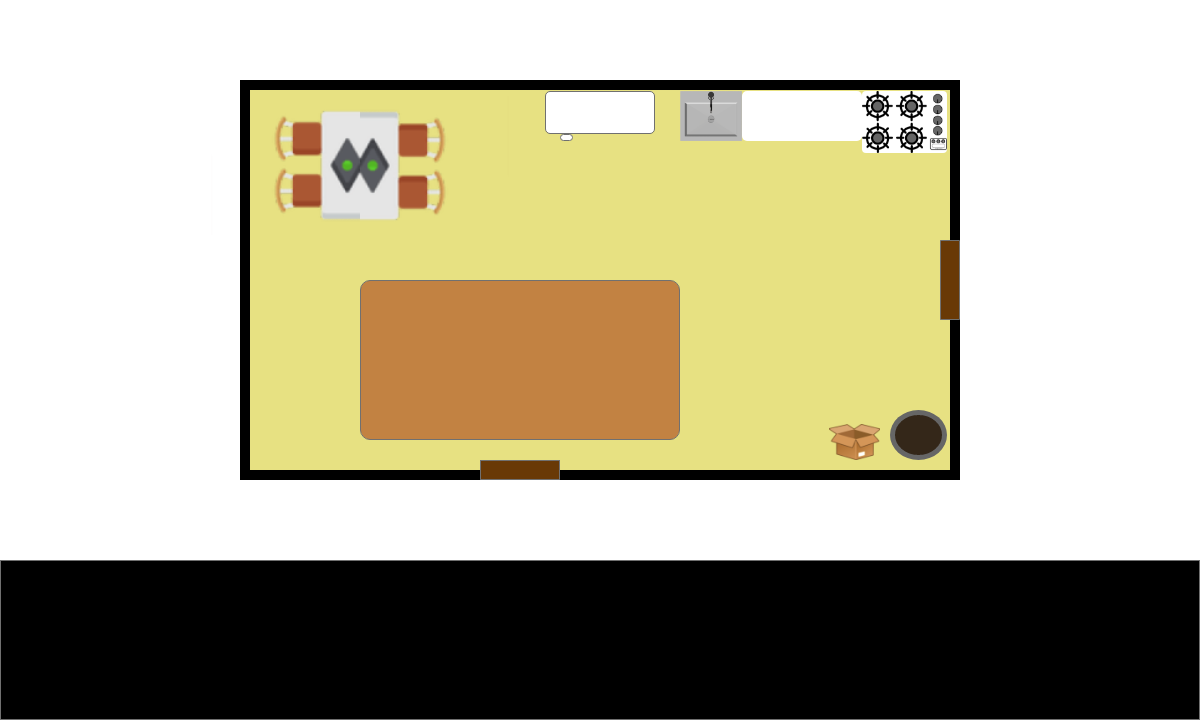
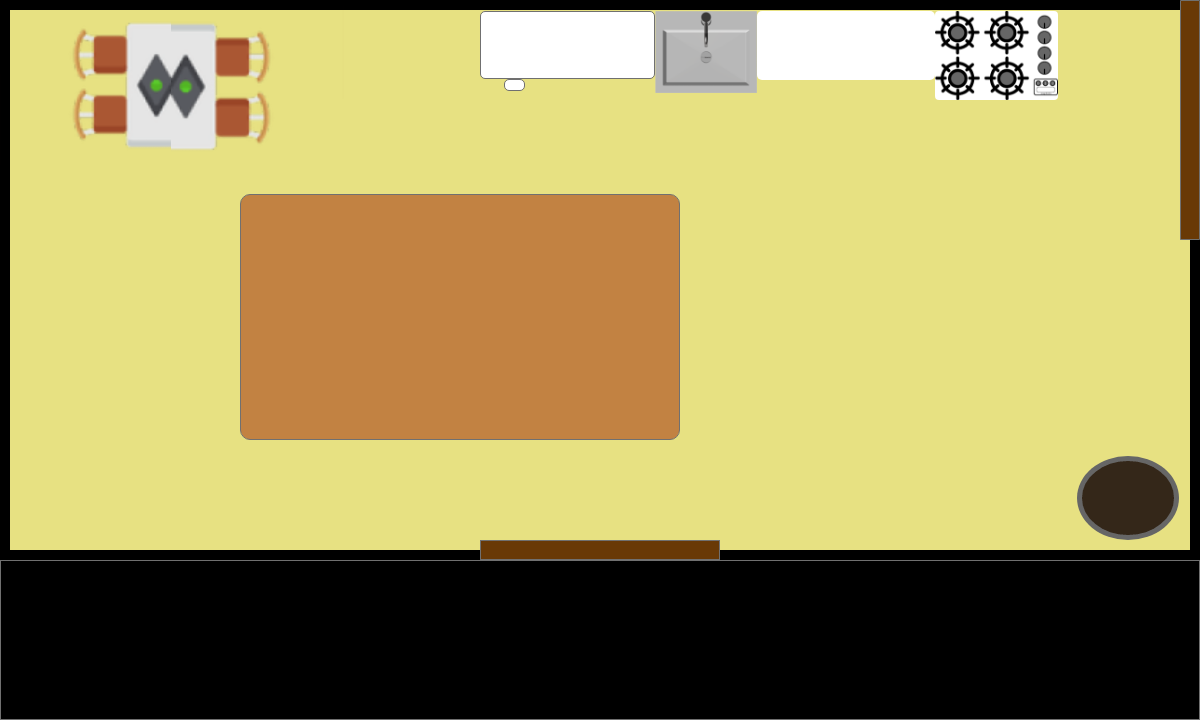
create door

diff --git a/sketch.js b/sketch.js
@@ -27,6 +27,17 @@ var clickablesManager;
 var clickables; //array
 var homeIndex = 0; //"home" clickable index 
 
+//Textbox
+var textBoxWidth = 645;
+var textBoxHeight = 70;
+
+//Chores varaibles
+var water = false;
+var checkBob = false;
+
+//Logistics varaibles
+var seeNote = false; //check if user saw mom's note
+
 //load adventure manager with states and interacions tables
 function preload(){
 	clickablesManager = new ClickableManager('data/clickableLayout.csv');
@@ -146,15 +157,28 @@ clickableButtonPressed = function() {
   }
 }
 
+function doorCollide() {
+	if (adventureManager.getStateName() == "Kitchen") {
+		adventureManager.changeState("LivingRoom");
+	}
+	else if (adventureManager.getStateName() == "LivingRoom") {
+		adventureManager.changeState("Hallway");
+	}
+	else if (adventureManager.getStateName() == "Hallway") {
+		adventureManager.changeState("FrontYardBefore");
+	}
+}
+
 //______________Subclasses_________________//
-class FrontYard extends PNGRoom {
-	constructor() {
-		super();
-
-		this.textBoxWidth = 645;
-		this.textBoxHeight = 70;
-
-		this.homeText = "Let's go back in";
+class FrontYardBefore extends PNGRoom {
+	preload() {
+		//chekc if water chore is done
+		if (water) {
+			this.homeText = "Let's go back in";
+		}
+		else {
+			this.homeText = "Okay… So I am out in the front yard to water the grass. But how should I water it? ";
+		}
 	}
 	
 	draw() {
@@ -162,10 +186,59 @@ class FrontYard extends PNGRoom {
 
 		//text draw setting
 		fill(255);
-		textAlign(CENTER);
 		textSize(25);
 
 		//draw text
-		text(this.homeText, 268, 590, this.textBoxWidth, this.textBoxHeight);
+		text(this.homeText, 268, 590, textBoxWidth, textBoxHeight);
+	}
+}
+class Kitchen extends PNGRoom {
+	preload() { 
+
+		//creat door sprite for collison
+	  	this.door = createSprite(320, 540, 20, 20);
+  		this.door.addAnimation('door', loadAnimation('assets/Door.png'));
+
+	}
+	draw() {
+		super.draw();
+		//draw door sprite
+		drawSprite(this.door);
+		//check for overlap with door and main character and switch to next state when collided
+		playerSprite.overlap(this.door,doorCollide);
+	}
+}
+
+class LivingRoom extends PNGRoom {
+	preload() { 
+
+		//creat door sprite for collison
+	  	this.door = createSprite(320, 540, 20, 20);
+  		this.door.addAnimation('door', loadAnimation('assets/Door.png'));
+
+	}
+	draw() {
+		super.draw();
+		//draw door sprite
+		drawSprite(this.door);
+		//check for overlap with door and main character and switch to next state when collided
+		playerSprite.overlap(this.door,doorCollide);
+	}
+}
+
+class Hallway extends PNGRoom {
+	preload() { 
+
+		//creat door sprite for collison
+	  	this.door = createSprite(320, 540, 20, 20);
+  		this.door.addAnimation('door', loadAnimation('assets/Door.png'));
+
+	}
+	draw() {
+		super.draw();
+		//draw door sprite
+		drawSprite(this.door);
+		//check for overlap with door and main character and switch to next state when collided
+		playerSprite.overlap(this.door,doorCollide);
 	}
 }
